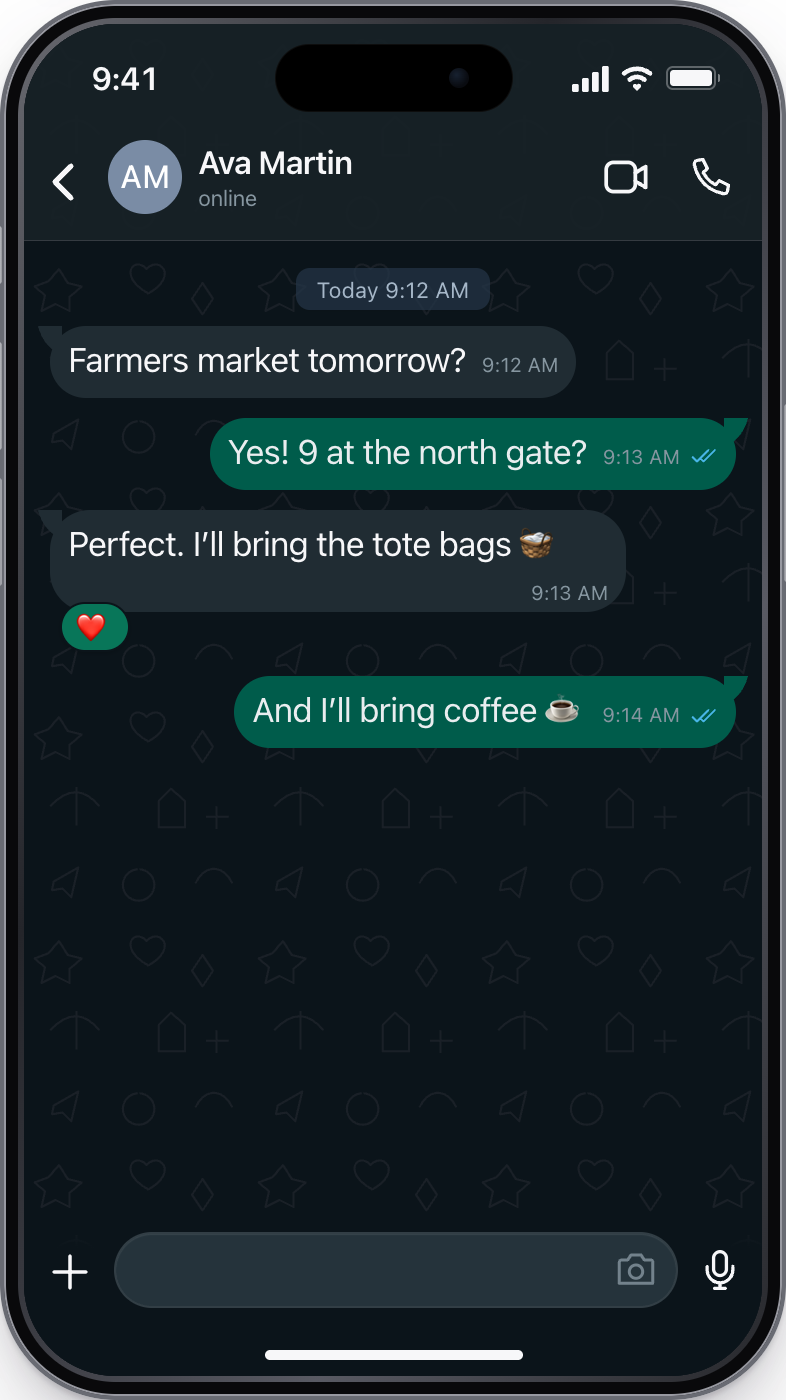
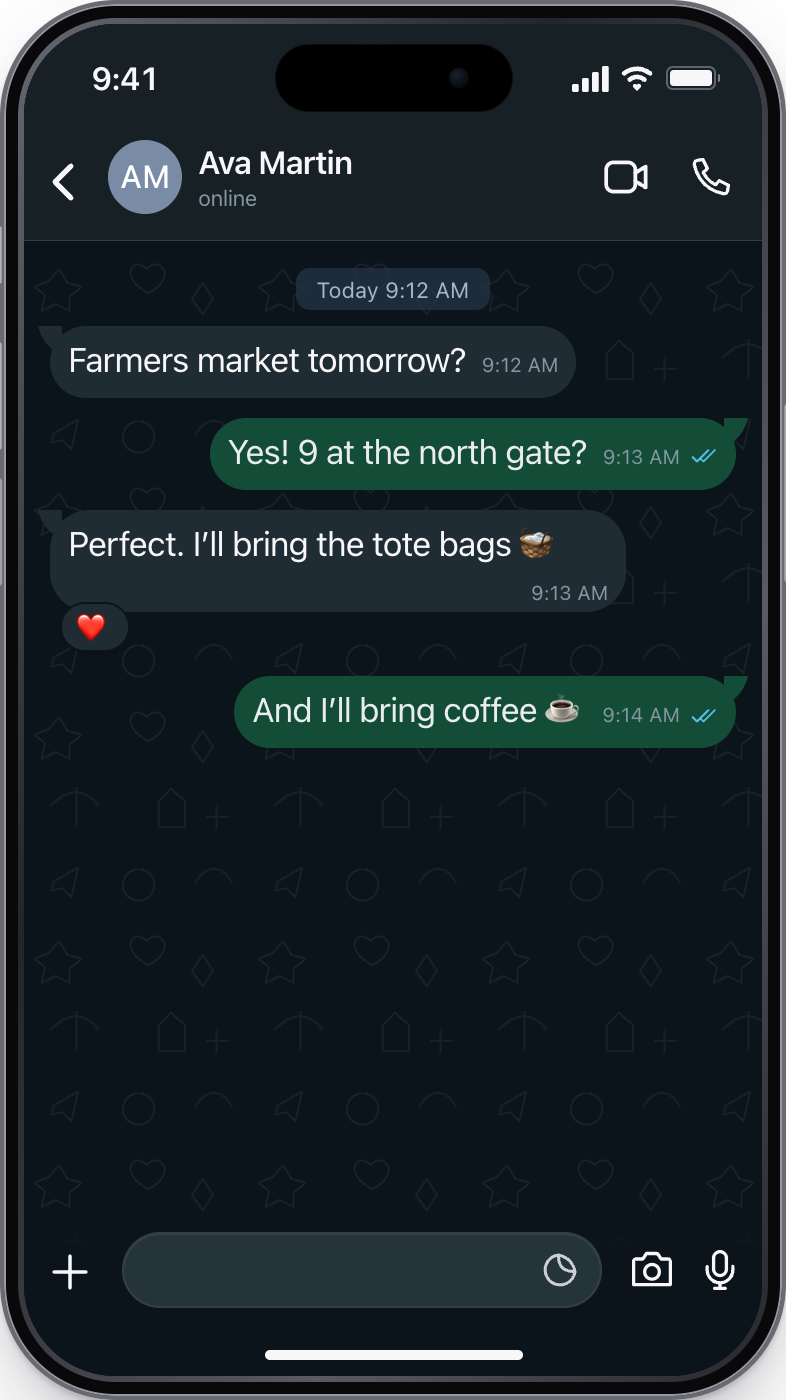
Match the WhatsApp iOS composer, reactions, and colors (#2)
- Composer: sticker inside the field, camera and mic outside it, and a
  paper-plane send button while typing, as in WhatsApp for iOS.
- Reactions sit in a neutral pill for everyone, not a green one for your own.
- Dark outgoing bubbles use #144D37 and read ticks use #53BDEB.

Version 0.2.0.

diff --git a/dist/phone.js b/dist/phone.js
@@ -517,12 +517,11 @@ function Composer({ scene, time }) {
     return (_jsxs("div", { className: "tm-composer-wrap", "data-mode": mode, "aria-hidden": "true", children: [scene.platform !== "imessage" &&
                 (mode === "reply" || mode === "edit") && (_jsxs("div", { className: "tm-compose-context", children: [_jsx(NativeIcon, { name: mode === "edit" ? "edit" : "reply" }), _jsxs("div", { children: [_jsx("strong", { children: mode === "edit" ? "Edit Message" : (person?.name ?? "Reply") }), _jsx("span", { children: referenced?.text || referenced?.kind })] }), _jsx(Glyph, { name: "close", size: 18 })] })), _jsxs("div", { className: "tm-composer", "data-native-edit": nativeEdit || undefined, children: [_jsx("span", { className: "tm-add", children: _jsx(Glyph, { name: scene.platform === "telegram" ? "paperclip" : "plus", size: 24 }) }), _jsxs("div", { className: "tm-composer-field", "data-scheduled": mode === "scheduled" || undefined, children: [mode === "scheduled" && (_jsxs("div", { className: "tm-schedule-chip", children: [_jsx(Glyph, { name: "clock", size: 13 }), _jsx("span", { children: context?.scheduledAt }), _jsx(Glyph, { name: "chevron", size: 12 }), _jsx(Glyph, { name: "close", size: 15 })] })), _jsx("span", { className: hasText ? "tm-composer-text" : "tm-composer-placeholder", children: hasText ? (_jsx(ComposerText, { scene: scene, time: time })) : (_jsxs(_Fragment, { children: [placeholder, !nativeEdit && scene.composer.focused && (_jsx("i", { className: "tm-caret" }))] })) }), !hasText && scene.platform === "telegram" && (_jsx(Glyph, { name: "gift", size: 20 })), " ", !hasText && (_jsx(Glyph, { name: scene.platform === "imessage"
                                     ? "wave"
-                                    : scene.platform === "whatsapp"
-                                        ? "camera"
-                                        : "sticker", size: 20 })), " ", hasText && scene.platform === "imessage" && (_jsx("span", { className: "tm-send", children: _jsx(Glyph, { name: "arrow-up", size: 20 }) }))] }), scene.platform !== "imessage" && (_jsx("span", { className: hasText ? "tm-send" : "tm-composer-mic", children: _jsx(Glyph, { name: hasText
+                                    : "sticker", size: 20 })), " ", hasText && scene.platform === "imessage" && (_jsx("span", { className: "tm-send", children: _jsx(Glyph, { name: "arrow-up", size: 20 }) }))] }), scene.platform === "whatsapp" && !hasText && (_jsx("span", { className: "tm-composer-mic", "data-camera": true, children: _jsx(Glyph, { name: "camera", size: 22 }) })), scene.platform !== "imessage" && (_jsx("span", { className: hasText ? "tm-send" : "tm-composer-mic", children: _jsx(Glyph, { name: hasText
                                 ? mode === "edit"
                                     ? "check"
-                                    : scene.platform === "telegram"
+                                    : scene.platform === "telegram" ||
+                                        scene.platform === "whatsapp"
                                         ? "send"
                                         : "arrow-up"
                                 : "mic", size: 22 }) }))] })] }));

diff --git a/src/phone.tsx b/src/phone.tsx
@@ -2074,9 +2074,7 @@ function Composer({ scene, time }: { scene: Scene; time: number }) {
               name={
                 scene.platform === "imessage"
                   ? "wave"
-                  : scene.platform === "whatsapp"
-                    ? "camera"
-                    : "sticker"
+                  : "sticker"
               }
               size={20}
             />
@@ -2087,6 +2085,11 @@ function Composer({ scene, time }: { scene: Scene; time: number }) {
             </span>
           )}
         </div>
+        {scene.platform === "whatsapp" && !hasText && (
+          <span className="tm-composer-mic" data-camera>
+            <Glyph name="camera" size={22} />
+          </span>
+        )}
         {scene.platform !== "imessage" && (
           <span className={hasText ? "tm-send" : "tm-composer-mic"}>
             <Glyph
@@ -2094,7 +2097,8 @@ function Composer({ scene, time }: { scene: Scene; time: number }) {
                 hasText
                   ? mode === "edit"
                     ? "check"
-                    : scene.platform === "telegram"
+                    : scene.platform === "telegram" ||
+                        scene.platform === "whatsapp"
                       ? "send"
                       : "arrow-up"
                   : "mic"

diff --git a/dist/phone.css b/dist/phone.css
@@ -1222,7 +1222,7 @@
 }
 .tm-phone[data-platform="whatsapp"][data-theme="dark"] {
   --tm-in: #202c33;
-  --tm-out: #005c4b;
+  --tm-out: #144d37;
   --tm-out-ink: #e9edef;
   --tm-tint: #21c384;
   --tm-screen: #0b141a;
@@ -1370,7 +1370,7 @@
   height: 12px;
 }
 .tm-inline-meta[data-status="read"] svg {
-  color: #49b6e8;
+  color: #53bdeb;
 }
 .tm-phone[data-platform="telegram"] .tm-inline-meta[data-status="read"] svg {
   color: #58a144;
@@ -2054,6 +2054,20 @@
   font-weight: 500;
   color: var(--tm-muted);
   background: color-mix(in srgb, var(--tm-chrome) 75%, transparent);
+}
+/* WhatsApp draws every reaction in a neutral pill, including your own. */
+.tm-phone[data-platform="whatsapp"] .tm-reaction,
+.tm-phone[data-platform="whatsapp"] .tm-reaction[data-self] {
+  background: var(--tm-in);
+}
+.tm-phone[data-platform="whatsapp"] .tm-composer {
+  gap: 14px;
+}
+.tm-phone[data-platform="whatsapp"] .tm-composer-mic[data-camera] {
+  margin-right: -2px;
+}
+.tm-phone[data-platform="whatsapp"] .tm-composer-field > svg {
+  color: var(--tm-ink);
 }
 .tm-phone[data-platform="whatsapp"] .tm-unread-divider {
   width: max-content;

diff --git a/src/phone.css b/src/phone.css
@@ -1222,7 +1222,7 @@
 }
 .tm-phone[data-platform="whatsapp"][data-theme="dark"] {
   --tm-in: #202c33;
-  --tm-out: #005c4b;
+  --tm-out: #144d37;
   --tm-out-ink: #e9edef;
   --tm-tint: #21c384;
   --tm-screen: #0b141a;
@@ -1370,7 +1370,7 @@
   height: 12px;
 }
 .tm-inline-meta[data-status="read"] svg {
-  color: #49b6e8;
+  color: #53bdeb;
 }
 .tm-phone[data-platform="telegram"] .tm-inline-meta[data-status="read"] svg {
   color: #58a144;
@@ -2054,6 +2054,20 @@
   font-weight: 500;
   color: var(--tm-muted);
   background: color-mix(in srgb, var(--tm-chrome) 75%, transparent);
+}
+/* WhatsApp draws every reaction in a neutral pill, including your own. */
+.tm-phone[data-platform="whatsapp"] .tm-reaction,
+.tm-phone[data-platform="whatsapp"] .tm-reaction[data-self] {
+  background: var(--tm-in);
+}
+.tm-phone[data-platform="whatsapp"] .tm-composer {
+  gap: 14px;
+}
+.tm-phone[data-platform="whatsapp"] .tm-composer-mic[data-camera] {
+  margin-right: -2px;
+}
+.tm-phone[data-platform="whatsapp"] .tm-composer-field > svg {
+  color: var(--tm-ink);
 }
 .tm-phone[data-platform="whatsapp"] .tm-unread-divider {
   width: max-content;

diff --git a/README.md b/README.md
@@ -25,7 +25,7 @@ Pin a release tag:
 ```json
 {
   "dependencies": {
-    "@hraness/textmockups": "github:hraness/textmockups#v0.1.0"
+    "@hraness/textmockups": "github:hraness/textmockups#v0.2.0"
   }
 }
 ```
